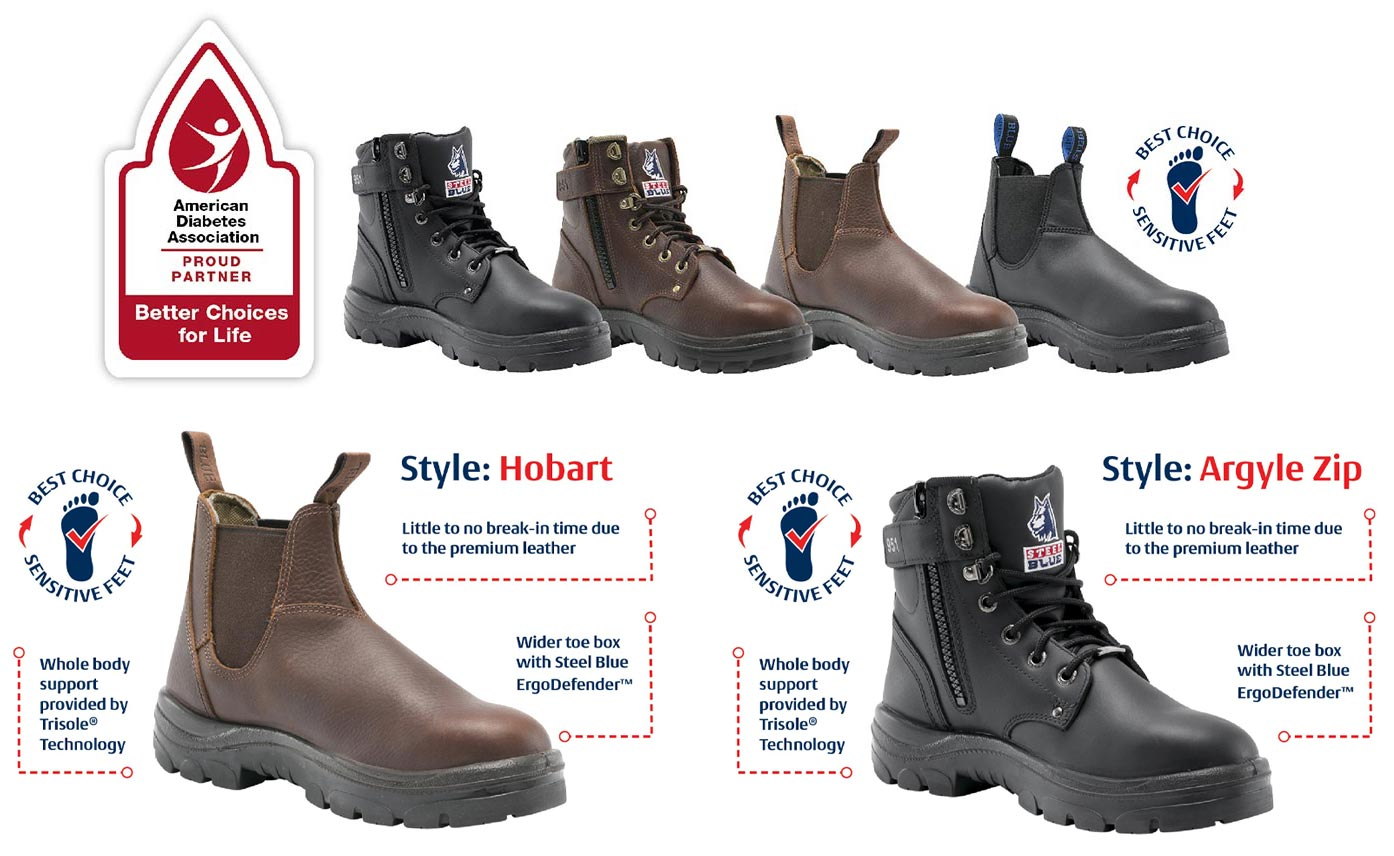
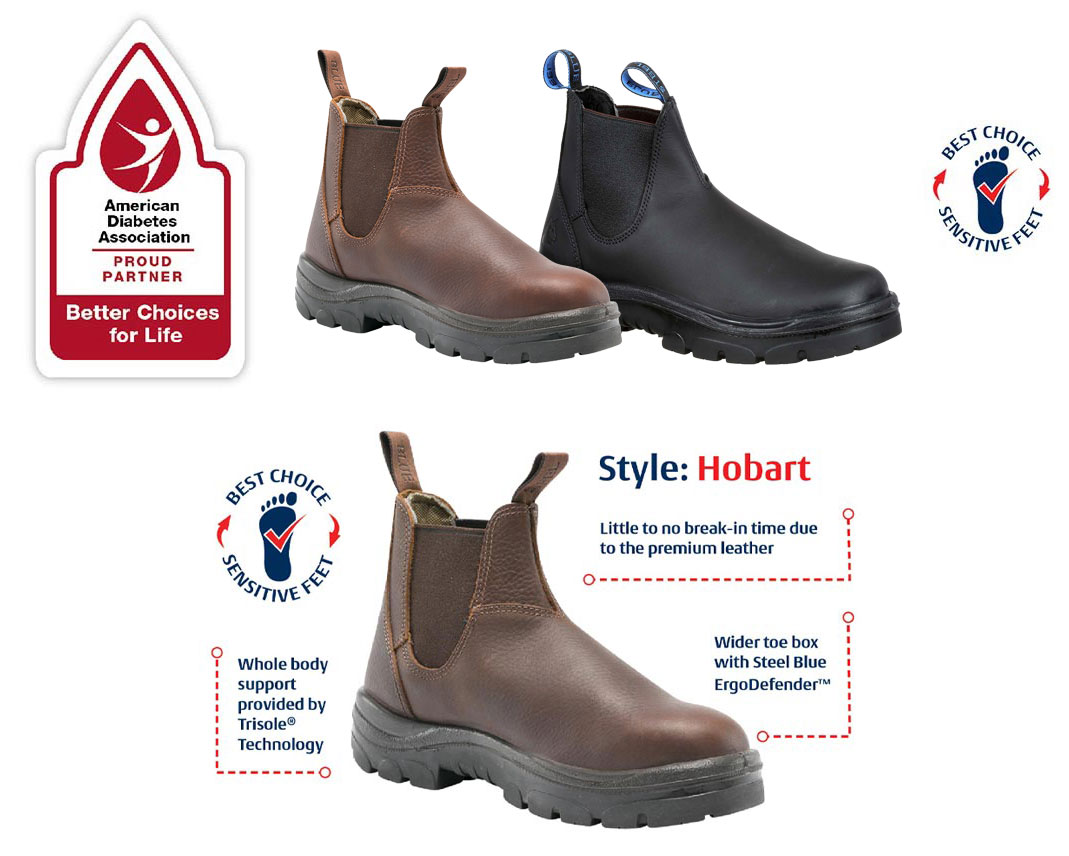
Updates to ADA page

diff --git a/index.html b/index.html
@@ -323,27 +323,12 @@
   <main id="content" role="main">
     <!-- Hero -->
 
-      <div class="bannerContain row justify-content-lg-between align-items-lg-center" style="padding: 2rem 5rem 2rem 5rem;margin-top: 5rem;background-image: linear-gradient(to right, #f5f5f5, #f8ffc4, #e9f875, #bed600);box-shadow: 5px 10px 8px 2px #ebebeb;">
-        <div class="col-md-1 col-sm-12"></div>
-        <div class="col-md-6 col-sm-12">
-          <h1 class="display-7 text-dark mb-2">Need help logging in?</h1>
-          <p style="color:#000;">Due to security upgrades the ordering URL you may have bookmarked in the past will no longer work. You can reach out to your safety manager to obtain your link or if you know the email address associated with your account you may enter it on the form to access your ordering URL yourself. You will want to bookmark the link, not the page it takes you to. If you need help doing this please reference the first FAQ on <a href="./login/faq.html" style="color:#000!important;text-decoration: underline;">this page</a>.</p>
+      <div class="bannerContain row justify-content-lg-between align-items-lg-center" style="padding: 1rem 1rem 0.5rem 1rem;margin-top: 5rem;background-image: linear-gradient(to right, #222, #000, #222, #000);box-shadow: 5px 10px 8px 2px #ebebeb;">
+       
+        <div class="col-md-12 col-sm-12">
+          <p class="display-9 text-white mb-2 mx-auto text-center" style="font-size: 1rem;">Need login help? Check out our FAQs <a style="color:#bed600;text-decoration:underline;" href="./login/faq.html">here</a>.</p>
         </div>
-        <div class="col-md-1 col-sm-12"></div>
-        <div class="col-md-3 col-sm-12">
-        <form method="POST">
-          <label class="form-label blackText" for="empEmail">CustomFit Account Email<br /><sup>*URL results may take a few seconds to load.</sup></label>
-          <div class="input-group-merge">
-          <input class="form-control form-control-lg" type="text" name="empEmail" id="empEmail" placeholder="Enter Email Address" aria-label="Enter your CustomFit Account Email Address Here" required="" minlength="7">
-          <button type="button" class="btn btn-dark btn-lg login100-form-btn width100 mt-3 hvr-bounce-to-right" value="send" id="submit" onclick="getEmpLoginInfo()">Submit</button>
-          <div class="col-md-12">
-            <p class="loginLookup blackText" id="employeeURL">
-             </p>
-            <p class="loginLookup blackText" id="noAccountFound"></p>
-        </div>
-        </div>
-      </form>
-    </div>
+       
     <div class="col-md-1 col-sm-12"></div>
       </div>
 

diff --git a/ada-styles/index.html b/ada-styles/index.html
@@ -271,7 +271,7 @@ data-hs-header-options='{
     <div class="container content-space-t-3">
       <div class="w-lg-65 text-center mx-lg-auto mb-5 mb-sm-7 mb-lg-5">
         <h1 class="display-4">ADA Styles</h1>
-        <p class="text-dark">We are a proud supplier of Steel Blue Hobart &amp; Argyle Zip styles. These styles participate in the <strong>American Diabetes Association&#39;s</strong> Better Choices for Life program.</p>
+        <p class="text-dark">We are a proud supplier of Steel Blue Hobart styles. These styles participate in the <strong>American Diabetes Association&#39;s</strong> Better Choices for Life program.</p>
       </div>
       <div class="position-relative bg-img-center min-vh-35 min-vh-md-35" style="background-image: url(./assets/img/others/diabetes-cropped.jpg);">
         <div class="position-absolute bottom-0 start-0 start-md-auto end-0 text-center text-md-start p-4 mx-auto mx-md-0" style="max-width: 25rem;">
@@ -287,7 +287,7 @@ data-hs-header-options='{
         <p class="text-center w-lg-85 d-block mx-auto">This program helps consumers make smarter choices in their everyday life by choosing products and services that are better for their health and wellness. Designated products have been reviewed against a set of criteria determined by the ADA to help them better manage their diabetes or prediabetes.<br /><br />
             &bull;&nbsp;ErgoDefender&trade; wide steel toe cap allows relaxed natural toe position to prevent sores from rubbing or pinching<br />
             &bull;&nbsp;Trisole&reg; Comfort Technology foundational support of feet, knees, hips and lower back from all-day fatigue</p>
-        <img src="./assets/img/others/Diabetes_Association.jpg" alt="Argyle and Hobart Styles">
+        <img src="./assets/img/others/Diabetes_Association.jpg" alt="Hobart Styles">
         </div>
         <div class="row justify-content-lg-between">
         <!-- End Col -->
